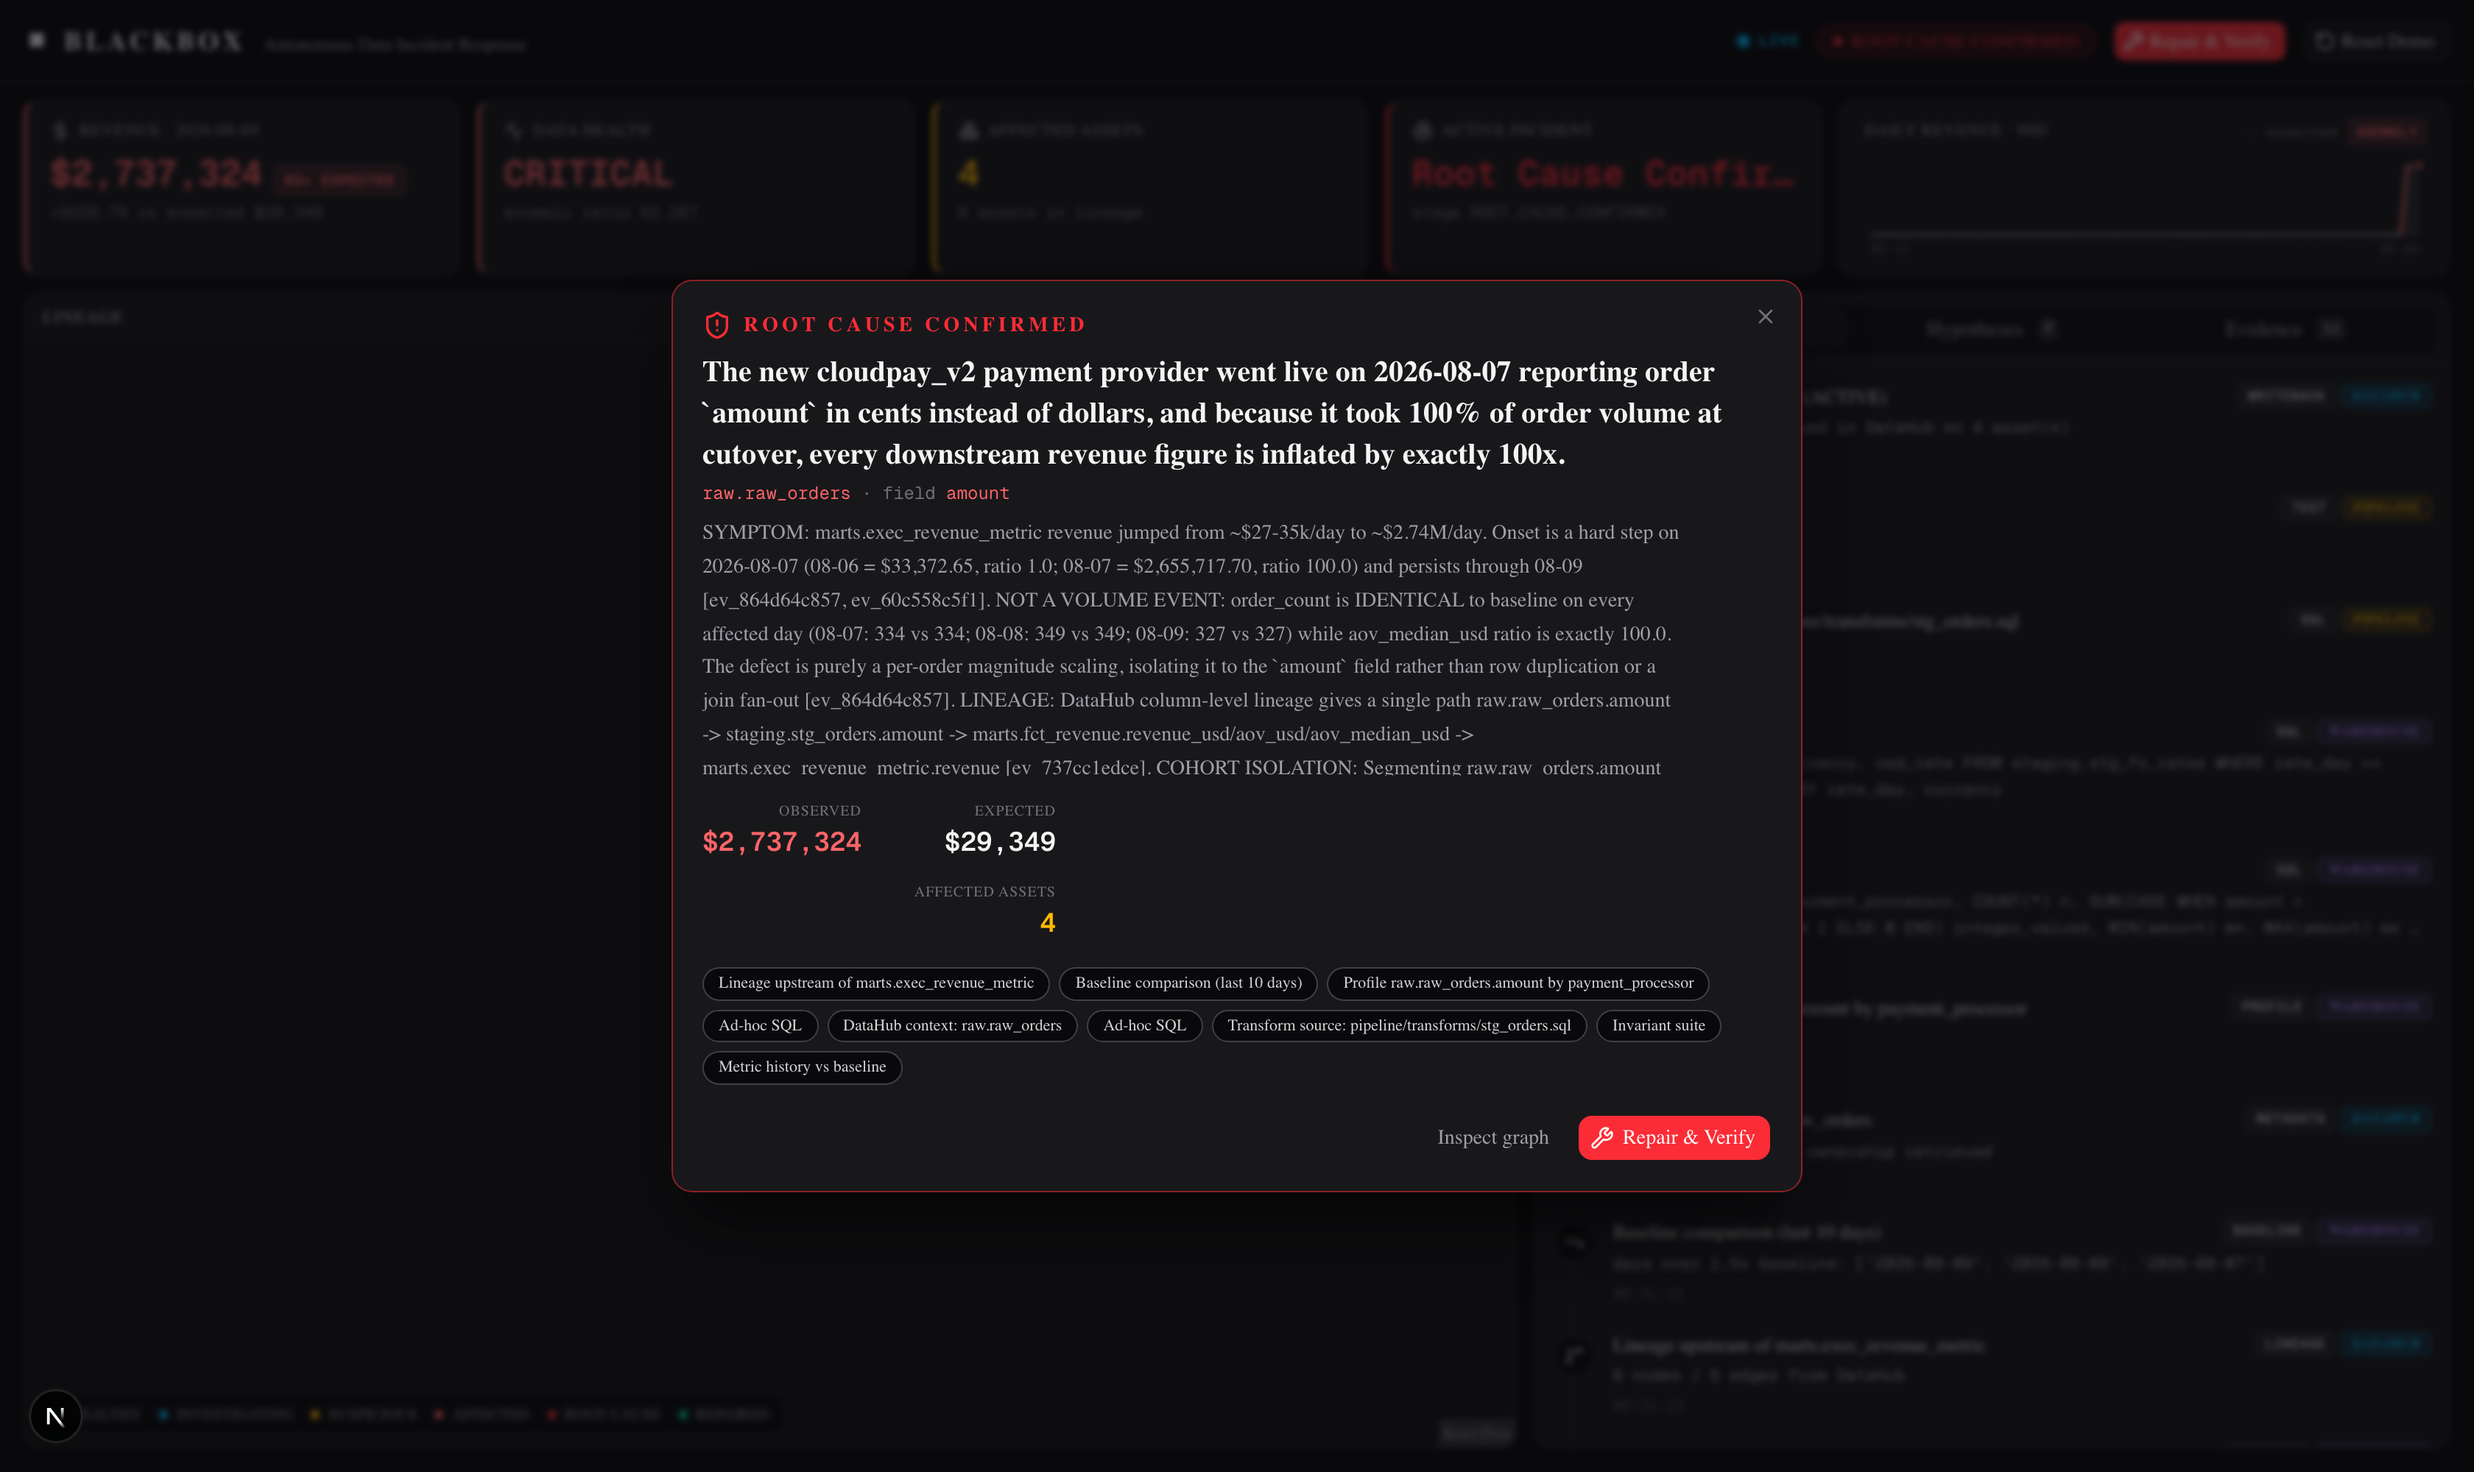
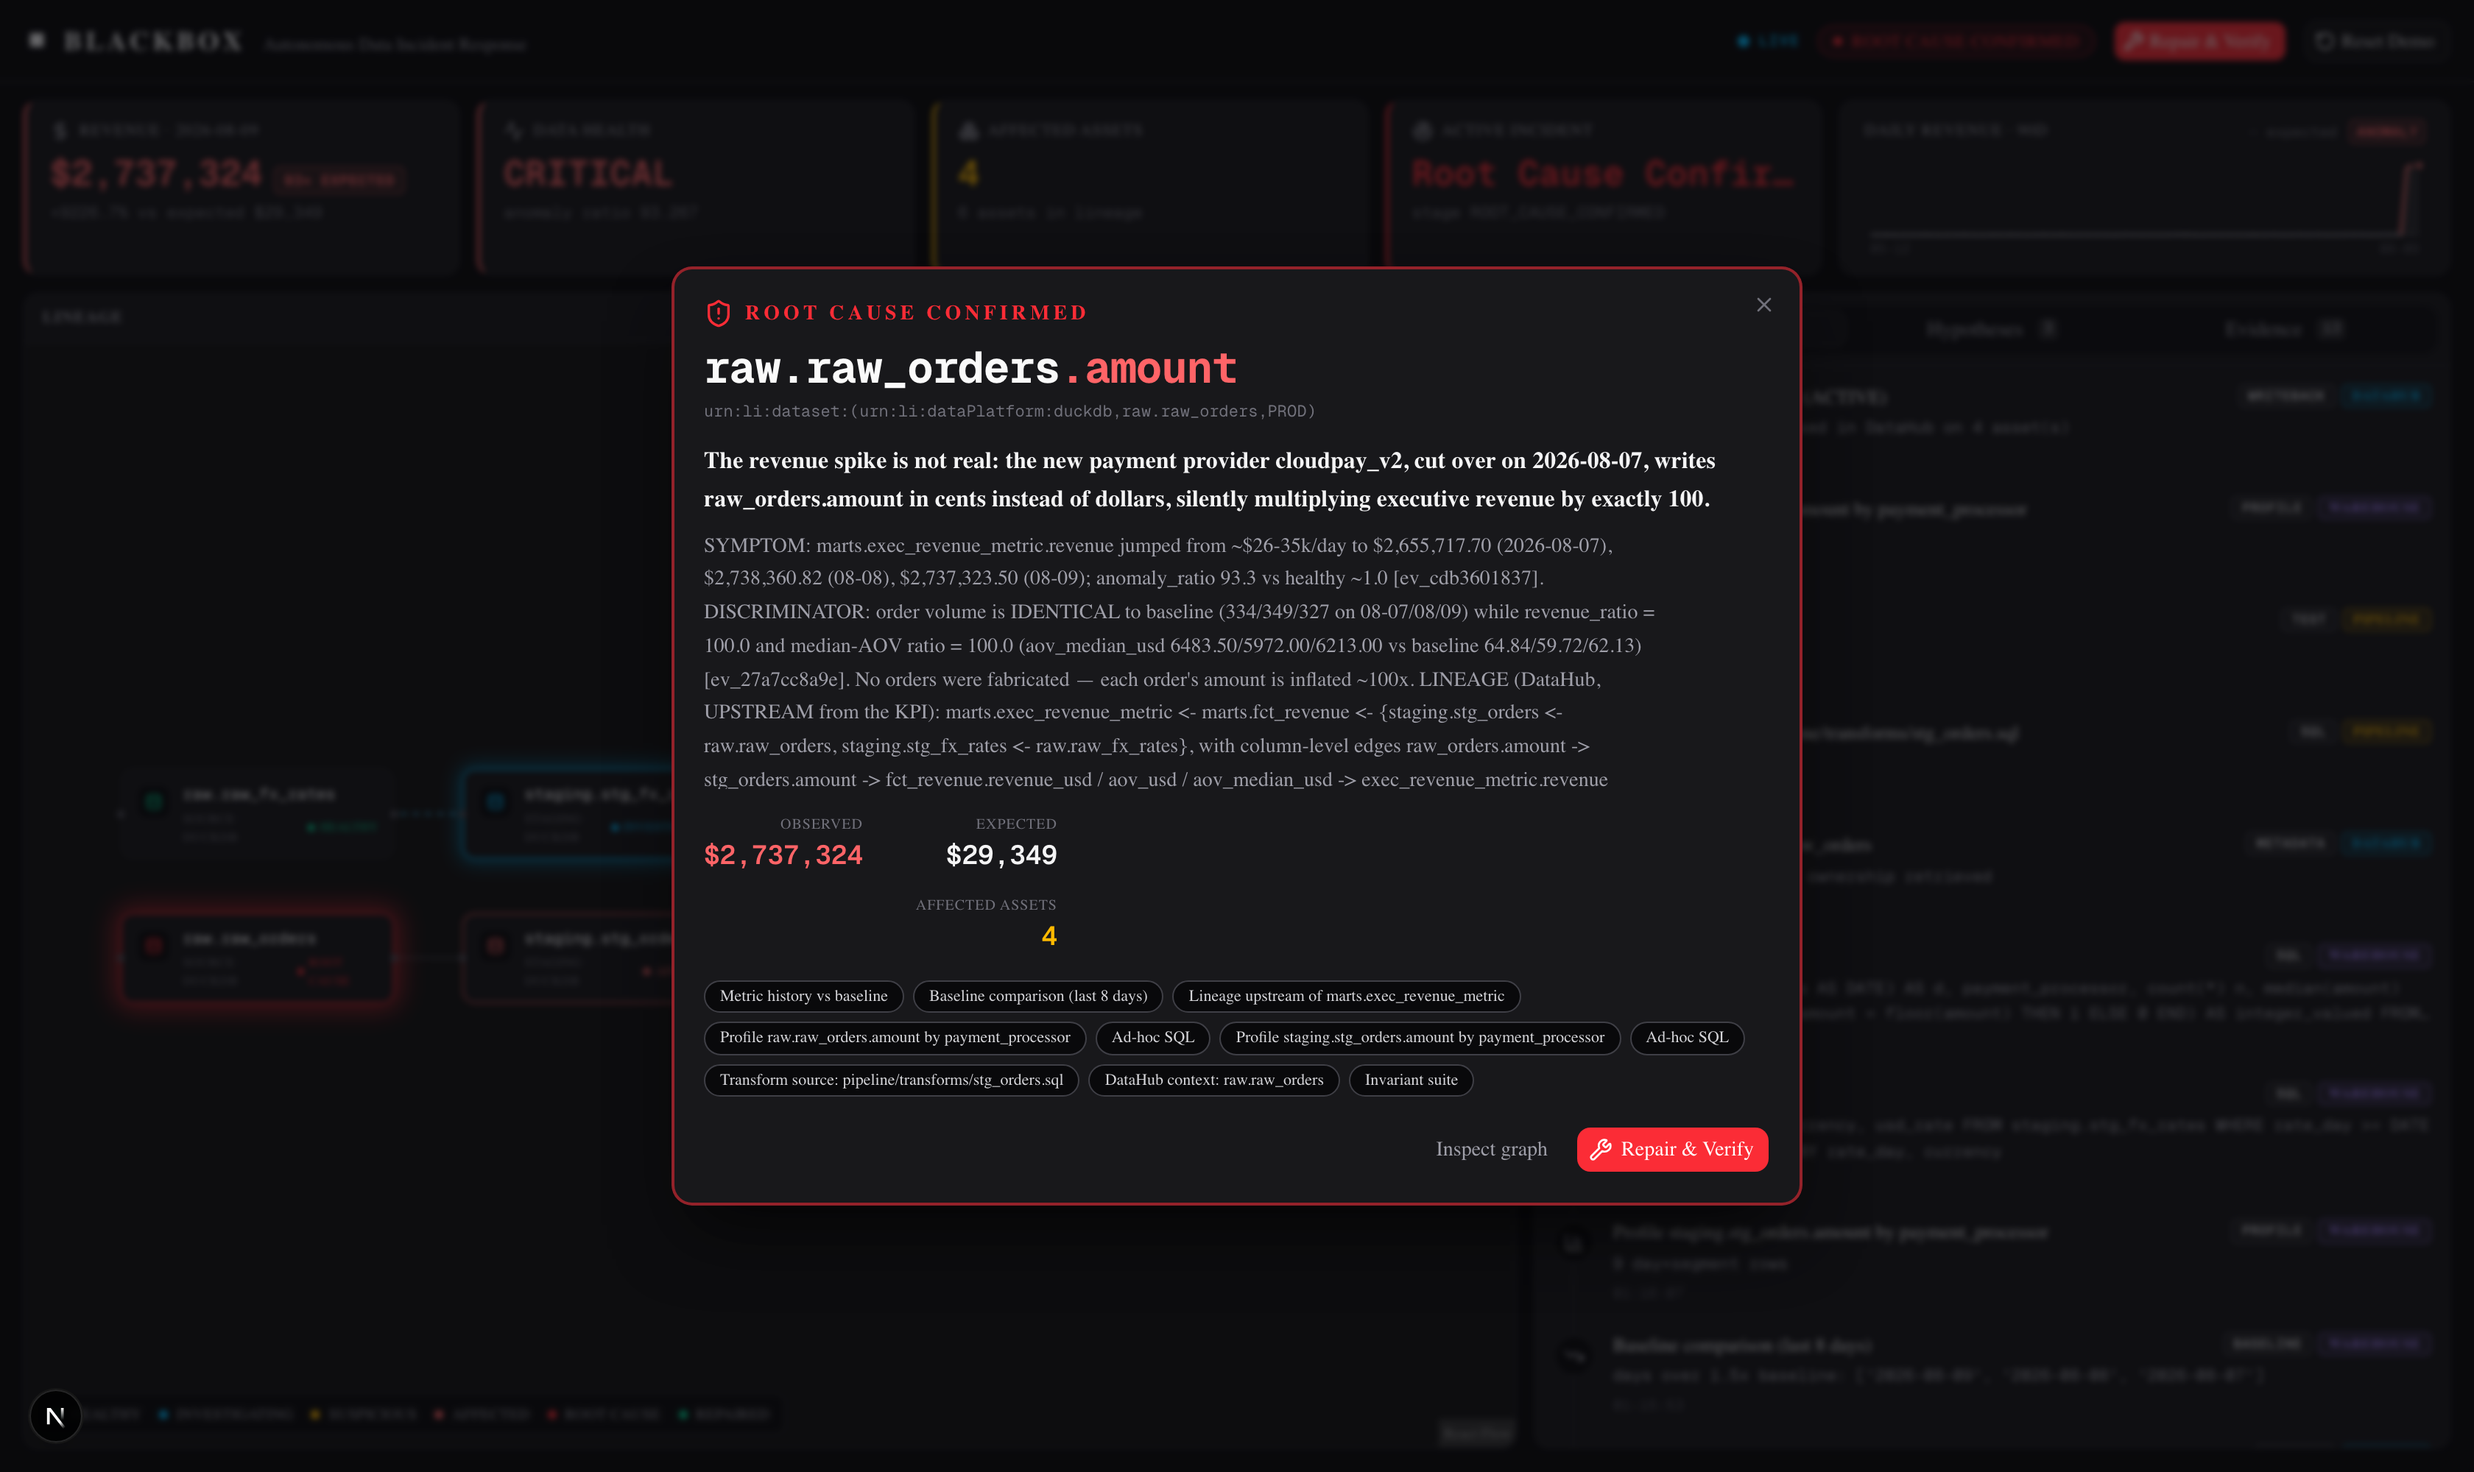
Figma-informed visual polish on the two hero states
Design authored in Figma via MCP (4 product states + token collection):
https://www.figma.com/design/8wzbrWC5OTte3iUgh66XOp

Presentational classes only — no logic, selectors, text content, backend, agent,
DataHub, eval or demo-flow changes.

- RootCauseCard: the blamed field becomes the visual anchor (3xl mono, field in
  red, urn demoted to fine print); summary is now secondary; red outer glow
- ResolutionCard: before/after KPI at display size (4xl mono, strikethrough red
  -> emerald) so the 93.3x -> 0.93x reversal reads instantly; larger tests badge;
  emerald outer glow
- README links the Figma design source for judges
- Screenshots regenerated from a real run; all six drill acts pass (179s)

Deliberately NOT implemented from the design: a 'DOLLARS -> CENTS' mega-headline
and 4 structured evidence pillars — both would require fields the backend does
not emit, and synthesizing them client-side would fabricate data.

diff --git a/frontend/src/components/ResolutionCard.tsx b/frontend/src/components/ResolutionCard.tsx
@@ -58,7 +58,7 @@ export function ResolutionCard({
       animate={{ opacity: 1, y: 0 }}
       exit={{ opacity: 0, y: 24 }}
       transition={{ duration: 0.25, ease: "easeOut" }}
-      className="relative rounded-xl border border-emerald-400/40 bg-zinc-900 p-5"
+      className="relative rounded-xl border-2 border-emerald-400/50 bg-zinc-900 p-5 shadow-[0_0_50px_-14px_rgba(16,217,154,0.3)]"
     >
       {onDismiss && (
         <button
@@ -82,10 +82,10 @@ export function ResolutionCard({
         {testsAfter && (
           <span
             className={cn(
-              "rounded-full border px-3 py-1 font-mono text-sm font-bold tabular-nums",
+              "rounded-full border px-4 py-1.5 font-mono text-base font-bold tracking-tight tabular-nums",
               allPassed
-                ? "border-emerald-400/40 bg-emerald-400/10 text-emerald-400"
-                : "border-amber-400/40 bg-amber-400/10 text-amber-400",
+                ? "border-emerald-400/50 bg-emerald-400/10 text-emerald-400"
+                : "border-amber-400/50 bg-amber-400/10 text-amber-400",
             )}
           >
             {testsAfter.passed}/{testsAfter.total} TESTS PASSED
@@ -99,13 +99,13 @@ export function ResolutionCard({
             <div className="text-[10px] uppercase tracking-wider text-zinc-500">
               Revenue · before
             </div>
-            <div className="font-mono text-xl font-semibold tabular-nums text-red-400 line-through decoration-red-400/70 decoration-2">
+            <div className="font-mono text-4xl font-bold tracking-tight tabular-nums text-red-400 line-through decoration-red-400/60 decoration-[3px]">
               {metricBefore
                 ? formatUsd(metricBefore.revenue, metricBefore.revenue < 10_000)
                 : "—"}
             </div>
             {metricBefore && (
-              <div className="font-mono text-[10px] tabular-nums text-red-400/80">
+              <div className="font-mono text-[11px] tabular-nums text-red-400/80">
                 {ratioLabel(metricBefore)}
               </div>
             )}
@@ -115,13 +115,13 @@ export function ResolutionCard({
             <div className="text-[10px] uppercase tracking-wider text-zinc-500">
               Revenue · after
             </div>
-            <div className="font-mono text-xl font-semibold tabular-nums text-emerald-400">
+            <div className="font-mono text-4xl font-bold tracking-tight tabular-nums text-emerald-400">
               {metricAfter
                 ? formatUsd(metricAfter.revenue, metricAfter.revenue < 10_000)
                 : "—"}
             </div>
             {metricAfter && (
-              <div className="font-mono text-[10px] tabular-nums text-emerald-400/80">
+              <div className="font-mono text-[11px] tabular-nums text-emerald-400/80">
                 {ratioLabel(metricAfter)}
               </div>
             )}

diff --git a/frontend/src/components/RootCauseCard.tsx b/frontend/src/components/RootCauseCard.tsx
@@ -41,7 +41,7 @@ export function RootCauseCard({
       animate={{ opacity: 1, y: 0 }}
       exit={{ opacity: 0, y: 24 }}
       transition={{ duration: 0.25, ease: "easeOut" }}
-      className="pulse-root-cause relative rounded-xl border border-red-500/50 bg-zinc-900 p-5"
+      className="pulse-root-cause relative rounded-xl border-2 border-red-500/55 bg-zinc-900 p-5 shadow-[0_0_60px_-12px_rgba(244,63,94,0.35)]"
     >
       {onDismiss && (
         <button
@@ -62,17 +62,23 @@ export function RootCauseCard({
               ROOT CAUSE CONFIRMED
             </span>
           </div>
-          <h3 className="mt-2 text-xl font-semibold text-zinc-100">
-            {rootCause.summary}
-          </h3>
+          {/* The blamed field is the single thing a reader must leave with —
+              give it display weight, with the urn as fine print beneath. */}
+          <div className="mt-3 flex flex-wrap items-baseline gap-x-3 gap-y-1">
+            <span className="font-mono text-3xl leading-none font-bold tracking-tight text-zinc-50">
+              {shortUrn(rootCause.asset_urn)}
+              <span className="text-red-400">.{rootCause.field}</span>
+            </span>
+          </div>
           <p
-            className="mt-1 truncate font-mono text-xs text-red-400"
+            className="mt-1.5 truncate font-mono text-[11px] text-zinc-500"
             title={rootCause.asset_urn}
           >
-            {shortUrn(rootCause.asset_urn)}
-            <span className="text-zinc-500"> · field </span>
-            {rootCause.field}
+            {rootCause.asset_urn}
           </p>
+          <h3 className="mt-3 max-w-3xl text-base leading-relaxed font-semibold text-zinc-100">
+            {rootCause.summary}
+          </h3>
           {/* The agent's full derivation runs long; cap it so the headline,
               impact stats and CTA stay above the fold (scroll for the rest). */}
           <p className="mt-2 max-h-44 max-w-2xl overflow-auto pr-2 text-sm leading-relaxed text-zinc-400">

diff --git a/README.md b/README.md
@@ -179,6 +179,7 @@ DataHub, the agent loop, the evidence gates, and the writeback are unchanged by 
 | **Deep architecture** | [`docs/ARCHITECTURE.md`](docs/ARCHITECTURE.md) |
 | **Self-assessment vs. rubric** | [`docs/JUDGE_SCORECARD.md`](docs/JUDGE_SCORECARD.md) — weaknesses included |
 | **Demo walkthrough** | [`docs/DEMO_SCRIPT.md`](docs/DEMO_SCRIPT.md) |
+| **Design source** | [Figma — Incident Command Center](https://www.figma.com/design/8wzbrWC5OTte3iUgh66XOp) (4 product states + tokens, authored via Figma MCP) |
 
 ## Repo map
 
